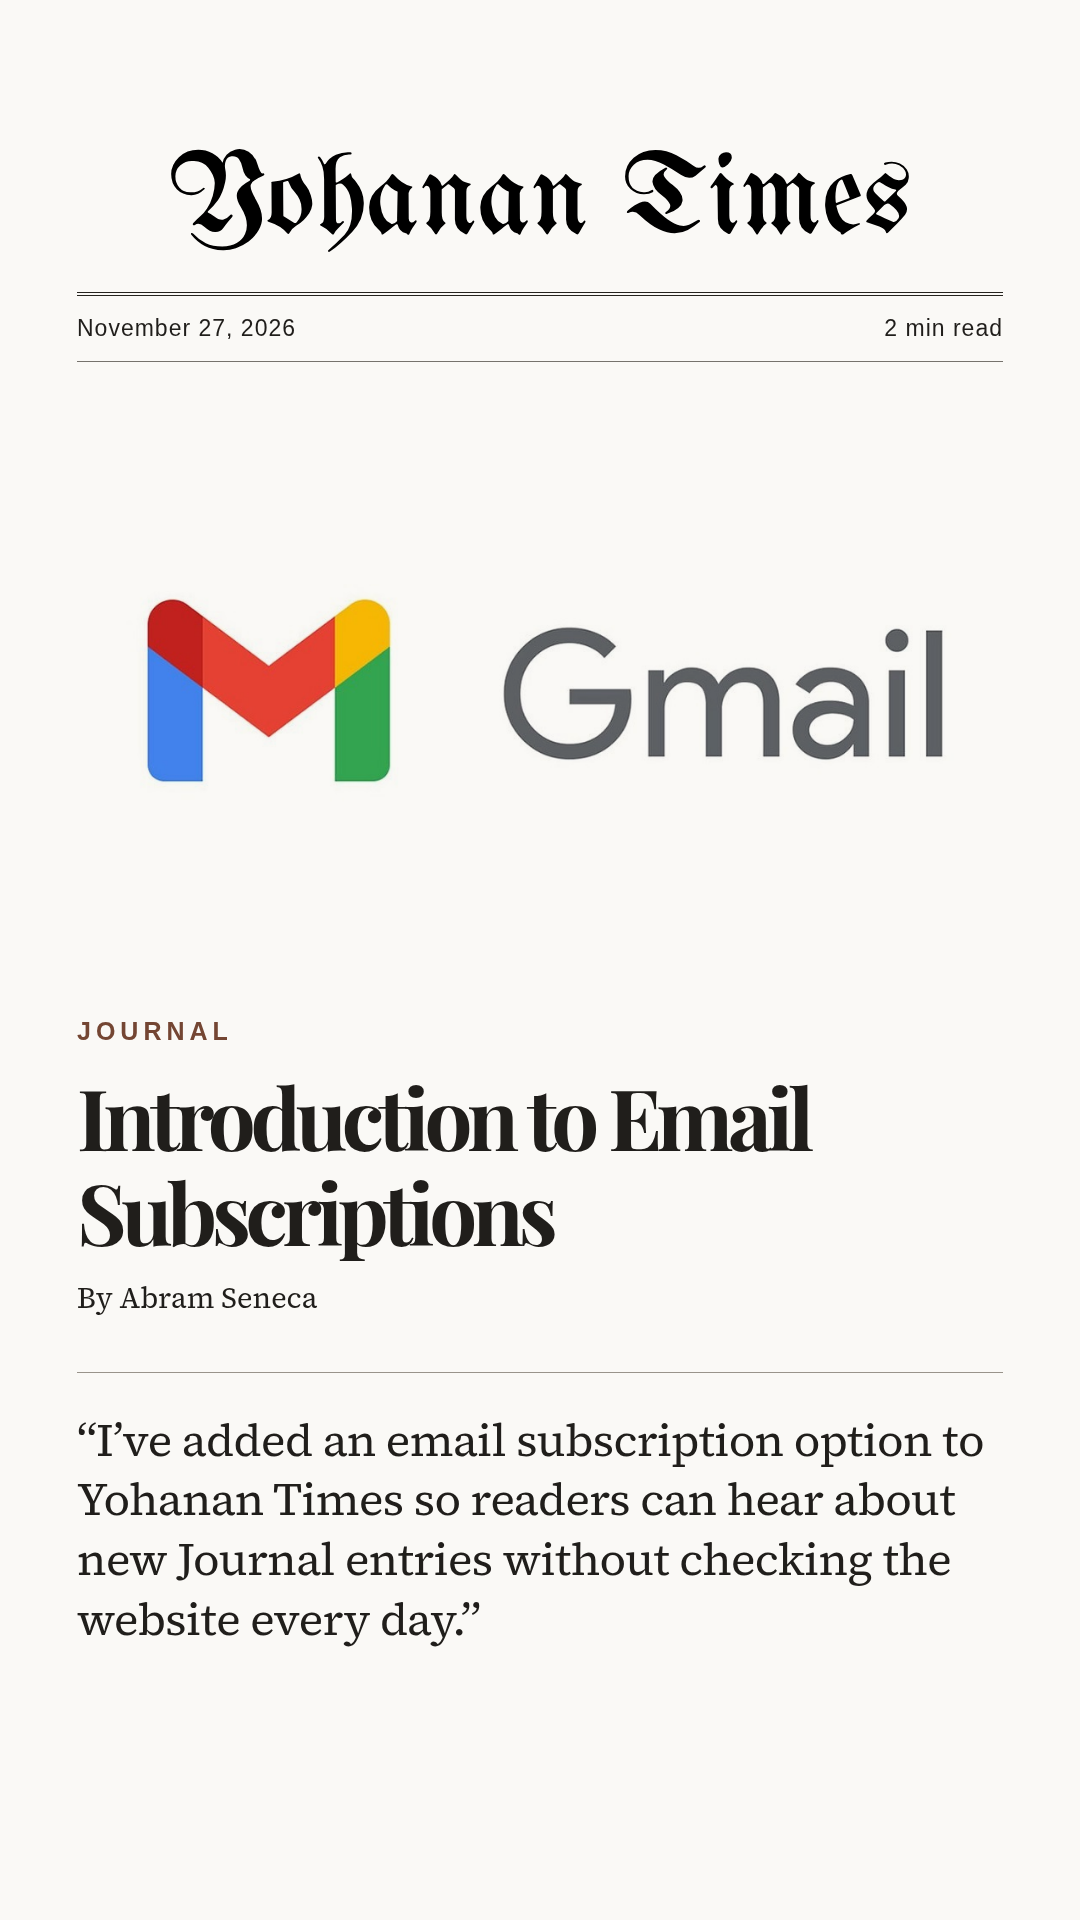
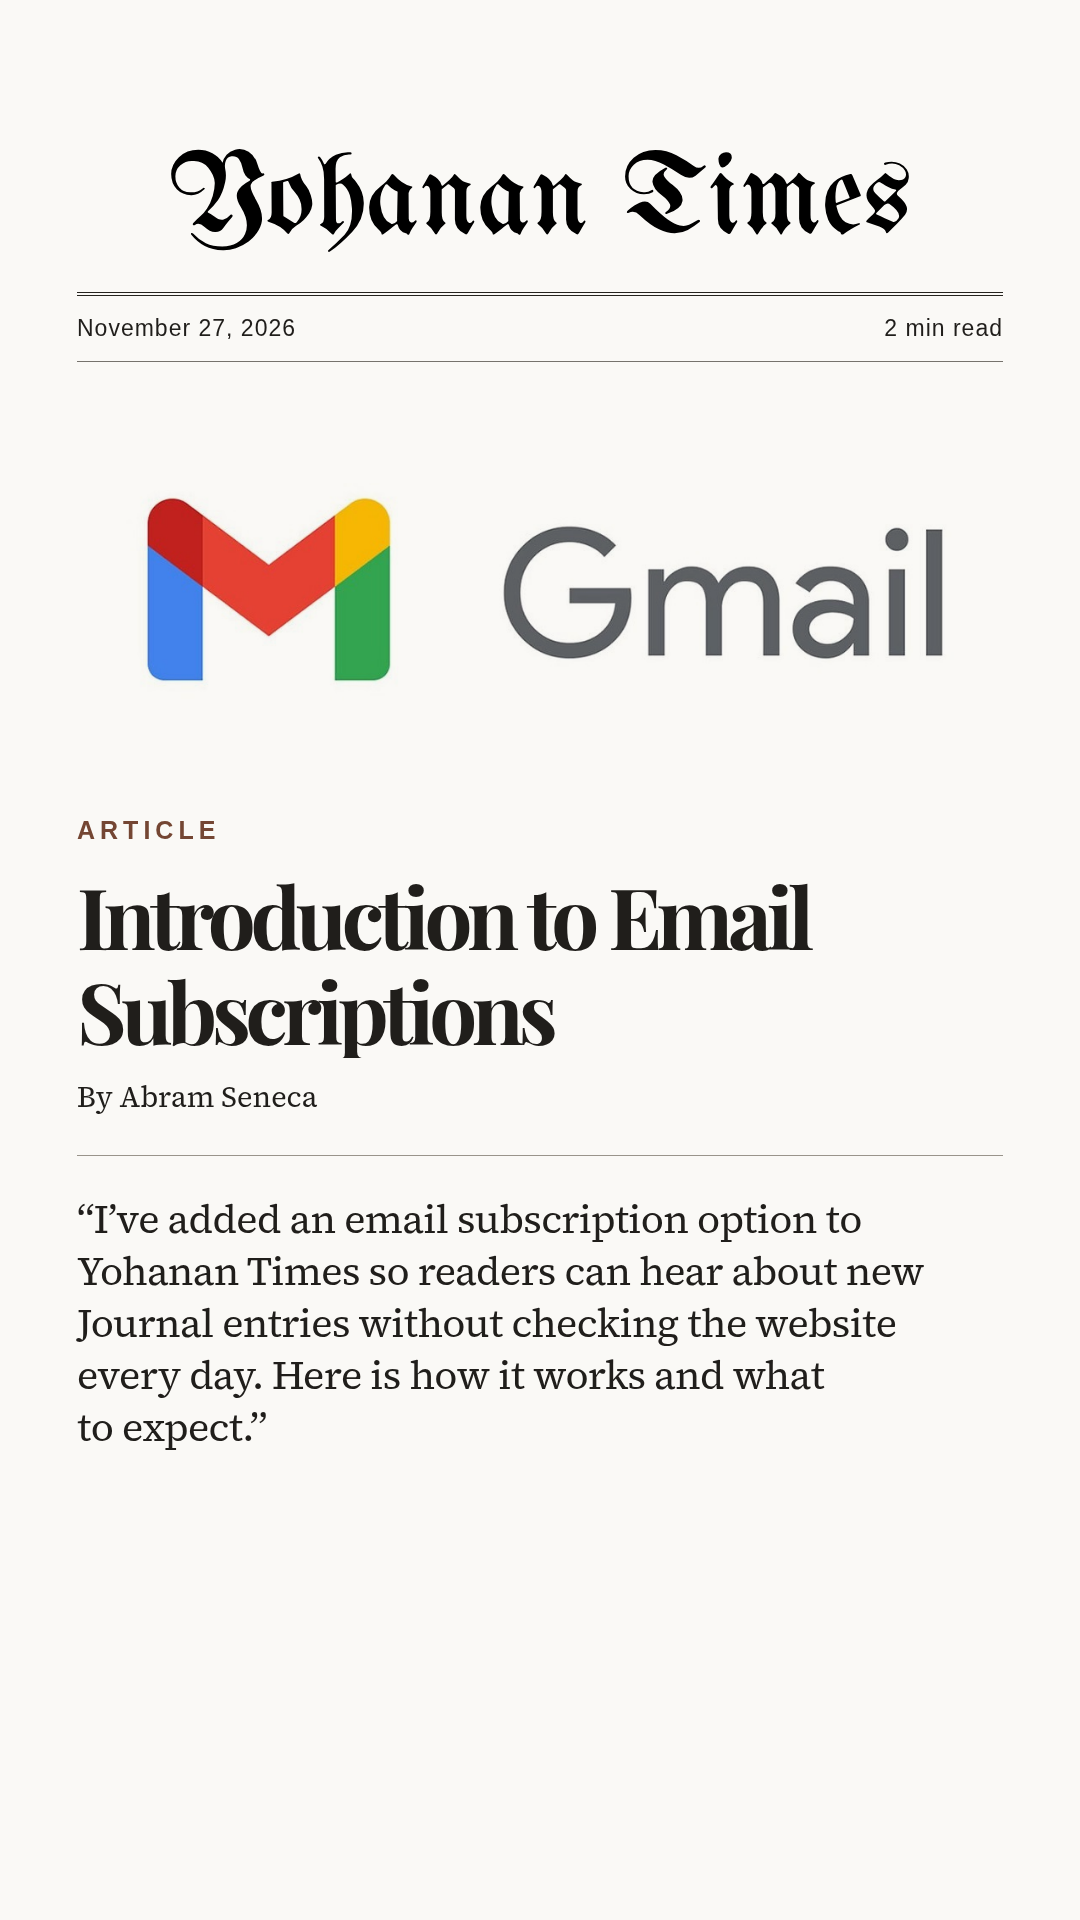
Publish portfolio content updates

Changed region(s): [[0.0611, 0.4375, 0.8861, 0.875], [0.4583, 0.25, 0.8861, 0.4062], [0.0917, 0.25, 0.3667, 0.4375]]

diff --git a/journal/introduction-to-email-subscriptions/index.html b/journal/introduction-to-email-subscriptions/index.html
@@ -49,7 +49,7 @@
   </dialog>
   <div class="cursor-ring" aria-hidden="true"></div>
   <main id="main" tabindex="-1" class="journal-main reading-stage"><div class="journal-shell"><a class="edition-link" href="../index.html" aria-label="Journal front page"><span class="edition edition-small"><img class="journal-nameplate" src="../../media/yohanan-times.svg" alt="Yohanan Times"> <i>- The Good Apple</i></span></a>
- <article class="reading"><header><div class="story-category">Journal</div><h1>Introduction to Email Subscriptions</h1><div class="journal-meta article-meta"><span>Abram Seneca · <time datetime="2026-11-27T18:00:00+08:00">November 27, 2026</time> · 2 min read</span><a class="article-share" id="open-share" href="../../journal/introduction-to-email-subscriptions/introduction-to-email-subscriptions-story.png"><svg aria-hidden="true" viewBox="0 0 24 24" fill="none" stroke="currentColor" stroke-width="1.6" stroke-linecap="round" stroke-linejoin="round"><path d="M12 15V3m-4 4 4-4 4 4M6 11H4v10h16V11h-2"/></svg>Share</a>
+ <article class="reading"><header><div class="story-category">Article</div><h1>Introduction to Email Subscriptions</h1><div class="journal-meta article-meta"><span>Abram Seneca · <time datetime="2026-11-27T18:00:00+08:00">November 27, 2026</time> · 2 min read</span><a class="article-share" id="open-share" href="../../journal/introduction-to-email-subscriptions/introduction-to-email-subscriptions-story.png"><svg aria-hidden="true" viewBox="0 0 24 24" fill="none" stroke="currentColor" stroke-width="1.6" stroke-linecap="round" stroke-linejoin="round"><path d="M12 15V3m-4 4 4-4 4 4M6 11H4v10h16V11h-2"/></svg>Share</a>
     <dialog id="article-share-dialog" aria-labelledby="share-heading">
       <div class="share-sheet">
         <div class="share-heading"><h2 id="share-heading">Share this article</h2><form method="dialog"><button aria-label="Close sharing">×</button></form></div>

diff --git a/journal/index.html b/journal/index.html
@@ -43,7 +43,7 @@
   <div class="cursor-ring" aria-hidden="true"></div>
   <main id="main" tabindex="-1" class="journal-main reading-stage"><div class="journal-shell"><header class="paper-head"><h1><span class="edition"><img class="journal-nameplate" src="../media/yohanan-times.svg" alt="Yohanan Times"> <i>- The Good Apple</i></span></h1><div class="paper-line"><span>Reflections, diary &amp; devotions</span><span>By Abram Seneca</span></div></header>
  <article class="story-card lead-story"><a href="introduction-to-email-subscriptions/index.html">
-    <div><div class="story-category">Journal</div><h2>Introduction to Email Subscriptions</h2><div class="journal-meta"><time datetime="2026-11-27T18:00:00+08:00">November 27, 2026</time> · 2 min read</div><p>I’ve added an email subscription option to Yohanan Times so readers can hear about new Journal entries without checking the website every day. Here is how it works and what to expect.</p></div>
+    <div><div class="story-category">Article</div><h2>Introduction to Email Subscriptions</h2><div class="journal-meta"><time datetime="2026-11-27T18:00:00+08:00">November 27, 2026</time> · 2 min read</div><p>I’ve added an email subscription option to Yohanan Times so readers can hear about new Journal entries without checking the website every day. Here is how it works and what to expect.</p></div>
     <img src="../media/journal/email-subscriptions-gmail.png" alt="Gmail logo on a white background" fetchpriority="high"></a></article>
  <section class="archive"><h2>Earlier entries</h2><div class="archive-grid"><article class="story-card "><a href="chapter-in-between-love-between-gifts/index.html">
     <div><div class="story-category">Devotion</div><h2>Chapter in Between : Love between Gifts</h2><div class="journal-meta"><time datetime="2026-11-27T09:35:00+08:00">November 27, 2026</time> · 5 min read</div><p>Scripture: 1 Corinthians 13</p></div>

diff --git a/journal/entries/introduction-to-email-subscriptions.md b/journal/entries/introduction-to-email-subscriptions.md
@@ -1,10 +1,13 @@
 ---
 title: Introduction to Email Subscriptions
-category: Journal
+category: Article
 date: 2026-11-27T18:00:00+08:00
 cover: /media/journal/email-subscriptions-gmail.png
 alt: Gmail logo on a white background
 caption: Email is how new Yohanan Times entries can reach readers who choose to subscribe.
+story_excerpt: I’ve added an email subscription option to Yohanan Times so readers can hear about new Journal entries without checking the website every day. Here is how it works and what to expect.
+sections: []
+gallery: []
 ---
 
 I’ve added an email subscription option to Yohanan Times so readers can hear about new Journal entries without checking the website every day. Here is how it works and what to expect.
